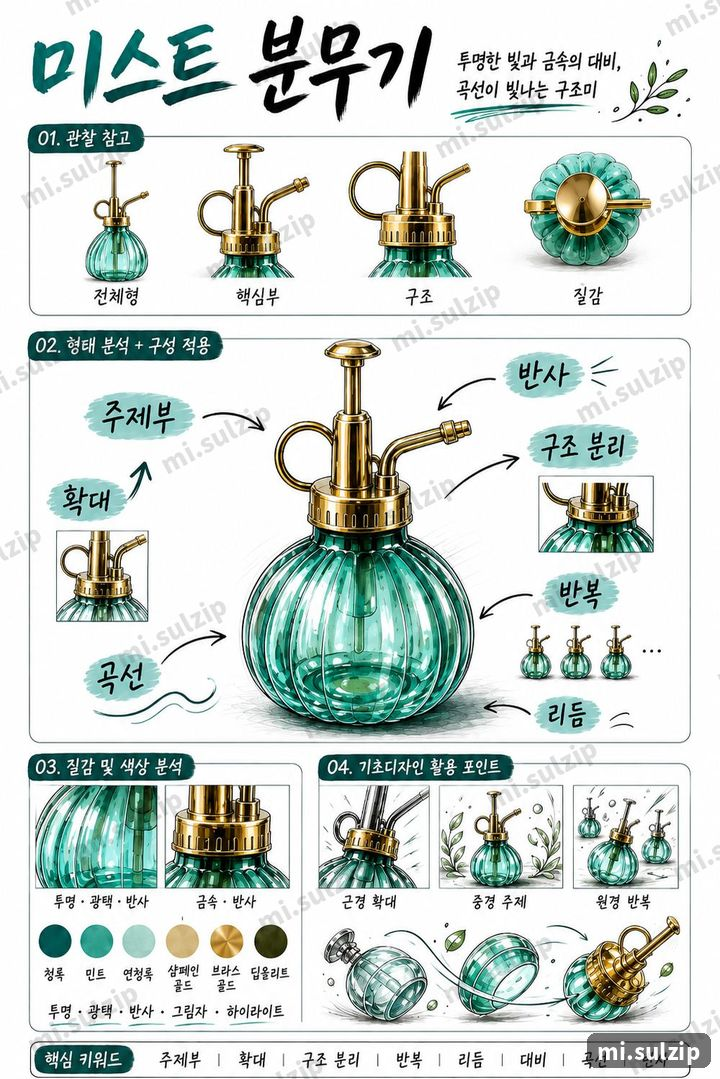
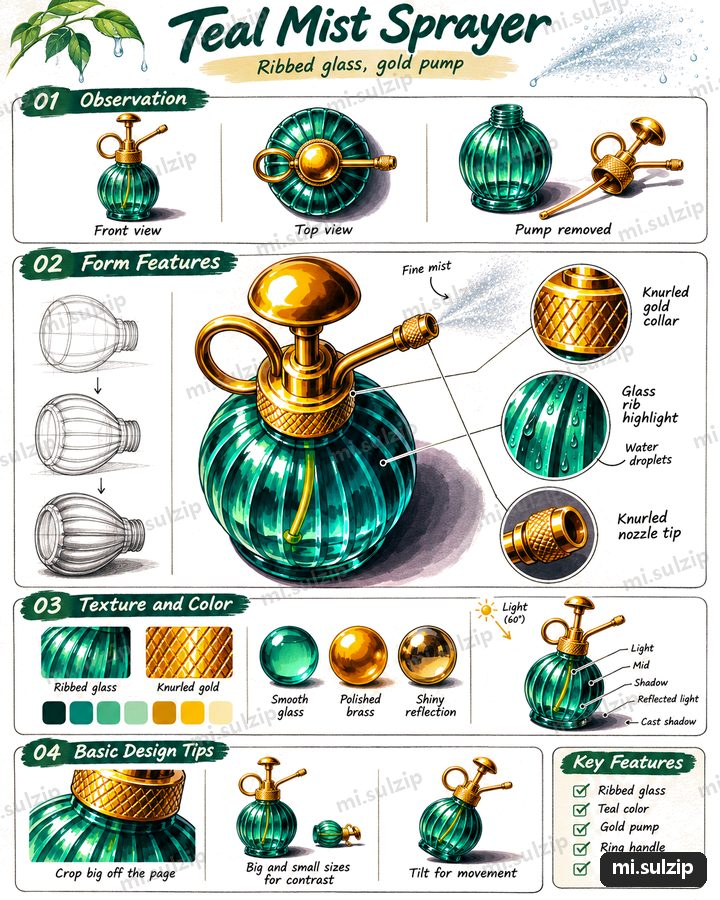
mistsprayer: 6th-version 7 cuts + white board, pocketwatch white board

diff --git a/index.html b/index.html
@@ -594,7 +594,7 @@ const ITEMS=[
  {"id": "waterpistol", colors:["green"],materials:["plastic"],shape:"organic","title": "투명 워터피스톨 레퍼런스", "cat": "생활용품", "tier": "MINI", "price": 4900, "badge": "", "order": 142, "pop": 142, "img": "img/waterpistol/board.jpg", "imgEn": "img/waterpistol/board_en.jpg", "thumb": "img/waterpistol/thumb.jpg", "cuts": 7, "pv": ["img/waterpistol/cut01.jpg", "img/waterpistol/cut02.jpg", "img/waterpistol/cut03.jpg", "img/waterpistol/cut04.jpg", "img/waterpistol/cut05.jpg", "img/waterpistol/cut06.jpg", "img/waterpistol/cut07.jpg", "img/waterpistol/set1.jpg"], "desc": "빛을 담은 구조, 반전의 재미", "contents": ["분석보드: 관찰 참고 · 형태 분석과 구성 · 질감과 색상 · 기초디자인 활용 포인트", "각도별 단독컷 7장 + 모음컷: 정면 · 측면 · 후면 · 상단 · 디테일", "핵심 키워드: 주제부 · 확대 · 절단 · 반복 · 리듬 · 대비 · 흐름"], "who": ["사물의 구조와 질감을 각도별로 익히고 싶은 입시생", "기초디자인 주제부 소재를 찾는 분"], "tags": ["생활용품", "장난감", "물총", "플라스틱", "투명", "연두"]},
  {"id": "pearlshell", colors:["silver","white"],materials:["shell"],shape:"round","title": "진주와 조개 레퍼런스", "cat": "동물", "tier": "MINI", "price": 4900, "badge": "new", "order": 143, "pop": 143, "img": "img/pearlshell/board.jpg", "imgEn": "img/pearlshell/board_en.jpg", "thumb": "img/pearlshell/thumb.jpg", "cuts": 6, "pv": ["img/pearlshell/cut01.jpg", "img/pearlshell/cut02.jpg", "img/pearlshell/cut03.jpg", "img/pearlshell/cut04.jpg", "img/pearlshell/cut05.jpg", "img/pearlshell/cut06.jpg", "img/pearlshell/set1.jpg"], "desc": "빛을 품은 곡선, 우아한 구조", "contents": ["분석보드: 관찰 참고 · 형태 분석과 구성 · 질감과 색상 · 기초디자인 활용 포인트", "각도별 단독컷 6장 + 모음컷: 정면 · 측면 · 후면 · 상단 · 디테일", "핵심 키워드: 주제부 · 확대 · 절단 · 반복 · 리듬 · 대비 · 흐름"], "who": ["동물 형태와 동세를 각도별로 보고 싶은 분", "질감 표현 연습이 필요한 입시생"], "tags": ["동물", "조개", "진주", "광택", "반사", "곡선"]},
  {"id": "flashlight", colors:["orange","black"],materials:["metal"],shape:"elongated","title": "강력 손전등 레퍼런스", "cat": "생활용품", "tier": "MINI", "price": 4900, "badge": "new", "order": 144, "pop": 144, "img": "img/flashlight/board.jpg", "imgEn": "img/flashlight/board_en.jpg", "thumb": "img/flashlight/thumb.jpg", "cuts": 6, "pv": ["img/flashlight/cut01.jpg", "img/flashlight/cut02.jpg", "img/flashlight/cut03.jpg", "img/flashlight/cut04.jpg", "img/flashlight/cut05.jpg", "img/flashlight/cut06.jpg", "img/flashlight/set1.jpg"], "desc": "밝고 단단한 구조, 금속과 플라스틱의 대비", "contents": ["분석보드: 관찰 참고 · 형태 분석과 구성 · 질감과 색상 · 기초디자인 활용 포인트", "각도별 단독컷 6장 + 모음컷: 정면 · 측면 · 후면 · 상단 · 디테일", "핵심 키워드: 주제부 · 확대 · 절단 · 반복 · 리듬 · 대비 · 흐름"], "who": ["사물의 구조와 질감을 각도별로 익히고 싶은 입시생", "기초디자인 주제부 소재를 찾는 분"], "tags": ["생활용품", "손전등", "금속", "플라스틱", "주황", "렌즈"]},
- {"id": "mistsprayer", colors:["green","gold"],materials:["plastic"],shape:"elongated","title": "미스트 분무기 레퍼런스", "cat": "생활용품", "tier": "MINI", "price": 4900, "badge": "new", "order": 145, "pop": 145, "img": "img/mistsprayer/board.jpg", "imgEn": "img/mistsprayer/board_en.jpg", "thumb": "img/mistsprayer/thumb.jpg", "cuts": 6, "pv": ["img/mistsprayer/cut01.jpg", "img/mistsprayer/cut02.jpg", "img/mistsprayer/cut03.jpg", "img/mistsprayer/cut04.jpg", "img/mistsprayer/cut05.jpg", "img/mistsprayer/cut06.jpg", "img/mistsprayer/set1.jpg"], "desc": "투명한 유리와 금속의 대비", "contents": ["분석보드: 관찰 참고 · 형태 분석과 구성 · 질감과 색상 · 기초디자인 활용 포인트", "각도별 단독컷 6장 + 모음컷: 정면 · 측면 · 후면 · 상단 · 디테일", "핵심 키워드: 주제부 · 확대 · 절단 · 반복 · 리듬 · 대비 · 흐름"], "who": ["사물의 구조와 질감을 각도별로 익히고 싶은 입시생", "기초디자인 주제부 소재를 찾는 분"], "tags": ["생활용품", "분무기", "유리", "금속", "청록", "곡선"]},
+ {"id": "mistsprayer", colors:["green","gold"],materials:["plastic"],shape:"elongated","title": "미스트 분무기 레퍼런스", "cat": "생활용품", "tier": "MINI", "price": 4900, "badge": "new", "order": 145, "pop": 145, "img": "img/mistsprayer/board.jpg", "imgEn": "img/mistsprayer/board_en.jpg", "thumb": "img/mistsprayer/thumb.jpg", "cuts": 7, "pv": ["img/mistsprayer/board.jpg", "img/mistsprayer/cut01.jpg", "img/mistsprayer/cut02.jpg", "img/mistsprayer/cut03.jpg", "img/mistsprayer/cut04.jpg", "img/mistsprayer/cut05.jpg", "img/mistsprayer/cut06.jpg", "img/mistsprayer/cut07.jpg", "img/mistsprayer/set1.jpg"], "desc": "투명한 유리와 금속의 대비", "contents": ["분석보드(영문): 관찰 참고 · 형태 특징 · 스케치 3단계 · 질감과 색상 · 기초디자인 활용 포인트", "각도별 단독컷 7장 + 모음컷: 정면 · 위에서 수직 · 누운 측면 · 금속부 확대 · 분사 미스트 · 유리 하단 확대 · 펌프 분리", "핵심 키워드: 주제부 · 확대 · 절단 · 반복 · 리듬 · 대비 · 흐름"], "who": ["사물의 구조와 질감을 각도별로 익히고 싶은 입시생", "기초디자인 주제부 소재를 찾는 분"], "tags": ["생활용품", "분무기", "유리", "금속", "청록", "곡선"]},
  {"id": "octopus", colors:["red"],materials:["flesh"],shape:"organic","title": "문어 레퍼런스", "cat": "동물", "tier": "MINI", "price": 4900, "badge": "new", "order": 146, "pop": 146, "img": "img/octopus/board.jpg", "imgEn": "img/octopus/board_en.jpg", "thumb": "img/octopus/thumb.jpg", "cuts": 5, "pv": ["img/octopus/cut01.jpg", "img/octopus/cut02.jpg", "img/octopus/cut03.jpg", "img/octopus/cut04.jpg", "img/octopus/cut05.jpg", "img/octopus/set1.jpg"], "desc": "유연한 움직임, 감각과 촉감의 조화", "contents": ["분석보드: 관찰 참고 · 형태 분석과 구성 · 질감과 색상 · 기초디자인 활용 포인트", "각도별 단독컷 5장 + 모음컷: 정면 · 측면 · 후면 · 상단 · 디테일", "핵심 키워드: 주제부 · 확대 · 절단 · 반복 · 리듬 · 대비 · 흐름"], "who": ["동물 형태와 동세를 각도별로 보고 싶은 분", "질감 표현 연습이 필요한 입시생"], "tags": ["동물", "문어", "빨판", "다리", "곡선", "빨강"]},
  {"id": "candleholder", colors:["silver"],materials:["metal"],shape:"organic","title": "흐름 캔들홀더 레퍼런스", "cat": "재질·표현", "tier": "MINI", "price": 4900, "badge": "new", "order": 147, "pop": 147, "img": "img/candleholder/board.jpg", "imgEn": "img/candleholder/board_en.jpg", "thumb": "img/candleholder/thumb.jpg", "cuts": 6, "pv": ["img/candleholder/cut01.jpg", "img/candleholder/cut02.jpg", "img/candleholder/cut03.jpg", "img/candleholder/cut04.jpg", "img/candleholder/cut05.jpg", "img/candleholder/cut06.jpg", "img/candleholder/set1.jpg"], "desc": "흘러내리는 금속의 흐름과 반사", "contents": ["분석보드: 관찰 참고 · 형태 분석과 구성 · 질감과 색상 · 기초디자인 활용 포인트", "각도별 단독컷 6장 + 모음컷: 정면 · 측면 · 후면 · 상단 · 디테일", "핵심 키워드: 주제부 · 확대 · 절단 · 반복 · 리듬 · 대비 · 흐름"], "who": ["금속·유리·투명 같은 재질 표현을 연습하고 싶은 입시생", "반사와 하이라이트 위치를 익히고 싶은 분"], "tags": ["재질·표현", "캔들", "크롬", "금속", "흐름", "녹아내림"]},
  {"id": "chameleon", colors:["green"],materials:["flesh"],shape:"organic","title": "카멜레온 레퍼런스", "cat": "동물", "tier": "MINI", "price": 4900, "badge": "new", "order": 177, "pop": 177, "img": "img/chameleon/board.jpg", "imgEn": "img/chameleon/board_en.jpg", "thumb": "img/chameleon/thumb.jpg", "cuts": 7, "pv": ["img/chameleon/board.jpg", "img/chameleon/cut01.jpg", "img/chameleon/cut02.jpg", "img/chameleon/cut03.jpg", "img/chameleon/cut04.jpg", "img/chameleon/cut05.jpg", "img/chameleon/cut06.jpg", "img/chameleon/cut07.jpg", "img/chameleon/set1.jpg"], "desc": "입자 비늘과 투구 모양 볏, 말린 나선 꼬리의 카멜레온", "contents": ["분석보드(영문): 관찰 참고 · 형태 특징과 확대 · 스케치 3단계 · 질감과 색상 · 기초디자인 활용 포인트", "각도별 단독컷 7장 + 모음컷: 대각선 메인 · 낮은 앞 대각선 · 뒤 위 대각선 · 강한 옆빛 · 머리와 눈 확대 · 비늘 확대 · 발과 꼬리 확대", "핵심 키워드: 투구 볏 · 터렛 눈 · 입자 비늘 · 쥐는 발 · 나선 꼬리"], "who": ["비늘 질감과 곡선 꼬리를 연습하고 싶은 입시생", "파충류의 줄무늬와 색 표현을 관찰하고 싶은 분"], "tags": ["동물", "카멜레온", "비늘", "나선꼬리", "파충류", "줄무늬"]},
